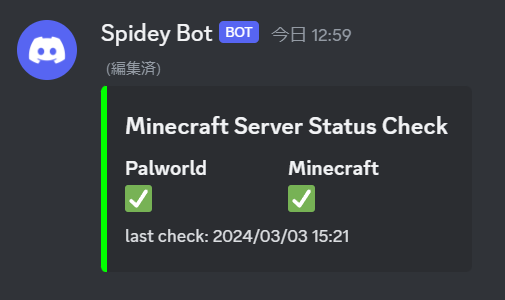
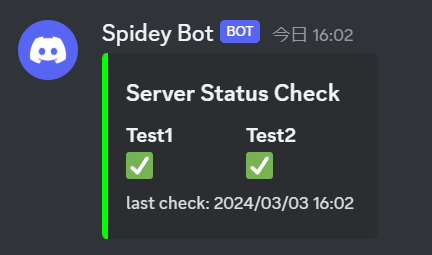
投稿されるタイトルの誤植を修正

Changed region(s): [[0.0301, 0.0549, 0.9028, 0.9333], [0.5718, 0.4941, 0.7523, 0.7137]]

diff --git a/app/script/discordbot.py b/app/script/discordbot.py
@@ -31,7 +31,6 @@ class PortCheck:
         self.config_yaml = config
     
     def _portcheck(self, config):
-        queue = []
         if config['protocol'] == 'TCP':
             sock = socket.socket(socket.AF_INET, socket.SOCK_STREAM)
             result = sock.connect_ex((socket.gethostbyname(config['host']), config['port']))
@@ -63,7 +62,7 @@ class PortCheck:
         mes = {
             "embeds": [
                 {
-                    "title": 'Minecraft Server Status Check',
+                    "title": self.config_yaml['bottitle'],
                     "color": 65280,
                     "footer": {
                         "text": f"last check: {self._get_now_time()}"

diff --git a/README.md b/README.md
@@ -31,6 +31,8 @@
         host: 192.168.1.222
         port: 30100
         protocol: UDP
+    
+    bottitle: <Bot Title>
     ```
 
 4. `docker-compose.yaml`の項目を自分の環境に合わせる。
@@ -67,6 +69,8 @@
         host: <IP or FQDN>
         port: <Port>
         protocol: <TCP or UDP>
+    
+    bottitle: <Bot Title>
     ```
 
 5. `local_setting.py`を作成
